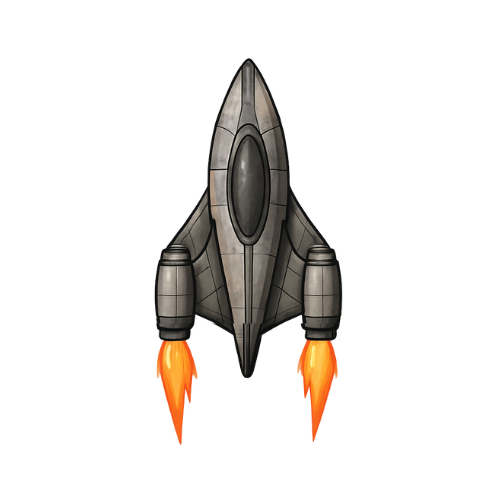
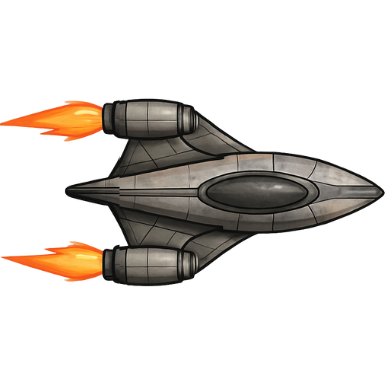
Vrai fix(c'était pas fix avant enft) + refacto fonction position

Changed region(s): [[0.0, 0.1247, 1.0, 0.9039]]

diff --git a/jeuppi.py b/jeuppi.py
@@ -103,24 +103,28 @@ def gerer_touche(event):
                     vaisseau_avance = True
                 elif vaisseau_avance and event.type == pygame.KEYUP:
                     vaisseau_avance = False
+            case pygame.K_e:
+                stop_vaisseau()
 
 def afficher_vaisseau(position_vaisseau, orientation_vaisseau):
-    if vaisseau_avance:
-        
+    if vaisseau_avance:  
         image_vaisseau = vaisseau_images[1]
         photo_vaisseau = pygame.transform.scale(image_vaisseau,(RAYON_VAISSEAU*2,RAYON_VAISSEAU*2))
-        photo_vaisseau_r = pygame.transform.rotate(photo_vaisseau,270+orientation_vaisseau)
+        #Il faut rajouter un moins sinon l'image du vaisseau tourne dans le mauvais sens
+        photo_vaisseau_r = pygame.transform.rotate(photo_vaisseau,-orientation_vaisseau)
         position_vaisseau_photo = pygame.Rect(position_vaisseau[0]-RAYON_VAISSEAU,position_vaisseau[1]-RAYON_VAISSEAU,2*RAYON_VAISSEAU,2*RAYON_VAISSEAU)
         fenetre.blit(photo_vaisseau_r,position_vaisseau_photo)
     else: 
         image_vaisseau = vaisseau_images[0]
         photo_vaisseau = pygame.transform.scale(image_vaisseau,(RAYON_VAISSEAU*2,RAYON_VAISSEAU*2))
-        photo_vaisseau_r = pygame.transform.rotate(photo_vaisseau,270+orientation_vaisseau)
+        #Il faut rajouter un moins sinon l'image du vaisseau tourne dans le mauvais sens
+        photo_vaisseau_r = pygame.transform.rotate(photo_vaisseau,-orientation_vaisseau)
         position_vaisseau_photo = pygame.Rect(position_vaisseau[0]-RAYON_VAISSEAU,position_vaisseau[1]-RAYON_VAISSEAU,2*RAYON_VAISSEAU,2*RAYON_VAISSEAU)
         fenetre.blit(photo_vaisseau_r,position_vaisseau_photo)       
     return 
 
-    
+# Dear Arthur, va te faire foutre avec ton code à la chat gpt ça m'a pris trois heures à débuguer
+
 # Fonction qui calcule la différence entra l'ancienne et la nouvelle position du vaisseau (afin de l'appliquer aux élément du jeu)
 def get_delta_pos(temps_maintenant,masse_vaisseau,force,orientation_vaisseau,stop=False):
     global t_avant
@@ -136,7 +140,7 @@ def get_delta_pos(temps_maintenant,masse_vaisseau,force,orientation_vaisseau,sto
         t_avant = temps_maintenant
     delta_t = temps_maintenant - t_avant
 
-    #coordonnés du vaisseau dans le repere ecran
+    #coordonnés du vaisseau dans le repere écran
     x_vaisseau = dimensions_fenetre[0]/2
     y_vaisseau = dimensions_fenetre[1]/2
     
@@ -146,32 +150,15 @@ def get_delta_pos(temps_maintenant,masse_vaisseau,force,orientation_vaisseau,sto
     ax = a*math.cos(angle_rad)
     ay = a*math.sin(angle_rad)
     
-    #calcul gravité pour chaque planete
-    for entite in scene : 
-        if entite["type"]=="planete":
-            x_planete,y_planete = entite["position"]
-
-            #distance au carré entre le vaisseau et la planete choisie
-            delta_x = x_planete-x_vaisseau
-            delta_y = y_planete-y_vaisseau
-            r2 = delta_x**2 + delta_y**2
-
-            #on applique la gravité pour un rayon appartenant à [0,rayon_influence]
-            if r2<= RAYON_INFLUENCE**2 and r2>0:
-                r = math.sqrt(r2)
-                masse_planete = entite["masse"]
-
-                #calcul gravité
-                Force_grav = CONSTANTE_GRAV*masse_planete*masse_vaisseau/r2
-                a_grav = Force_grav/masse_vaisseau
-                #on additionne la gravité à celle du moteur(+vecteur unitaire pour la direction)
-                ax+=a_grav*(delta_x/r)
-                ay+=a_grav*(delta_y/r)
+    # calcul gravité pour chaque planete
+    a_planete = calcul_gravite_planete(x_vaisseau,y_vaisseau,masse_vaisseau)
+    ax+=a_planete[0]
+    ay+=a_planete[1]
 
     #mise a jour vitesse
     vx = vx0+ax*delta_t
     vy = vy0+ay*delta_t
-
+    
     #mise a jour position du vaisseau
     x =x0 + vx0*delta_t + (ax*delta_t**2)/2
     y =y0 + vy0*delta_t + (ay*delta_t**2)/2
@@ -195,6 +182,31 @@ def get_delta_pos(temps_maintenant,masse_vaisseau,force,orientation_vaisseau,sto
 
     # On retourne la différence entre l'ancienne et nouvelle position du vaisseau
     return [x0-x,y0-y]
+
+def calcul_gravite_planete(x_vaisseau,y_vaisseau,masse_vaisseau):
+    a_planete_x = 0
+    a_planete_y = 0
+    for entite in scene : 
+            if entite["type"]=="planete":
+                x_planete,y_planete = entite["position"]
+
+                #distance au carré entre le vaisseau et la planete choisie
+                delta_x = x_planete-x_vaisseau
+                delta_y = y_planete-y_vaisseau
+                r2 = delta_x**2 + delta_y**2
+
+                #on applique la gravité pour un rayon appartenant à [0,rayon_influence]
+                if r2<= RAYON_INFLUENCE**2 and r2>0:
+                    r = math.sqrt(r2)
+                    masse_planete = entite["masse"]
+
+                    #calcul gravité
+                    Force_grav = CONSTANTE_GRAV*masse_planete*masse_vaisseau/r2
+                    a_grav = Force_grav/masse_vaisseau
+                    #on additionne la gravité à celle du moteur(+vecteur unitaire pour la direction)
+                    a_planete_x+=a_grav*(delta_x/r)
+                    a_planete_y+=a_grav*(delta_y/r)
+    return a_planete_x,a_planete_y
 
 
 def stop_vaisseau():
@@ -254,7 +266,6 @@ def afficher_planete(planete):
     fenetre.blit(photo_planete,position)
     return
 
-
 def generer_carte():
     nb_planetes=random.randint(NBR_PLANETE_MIN,NBR_PLANETE_MAX)
     couleurs = [ROUGE,JAUNE,BLEU,ORANGE,WHITE]
@@ -309,7 +320,7 @@ while True:
     delta_pos = get_delta_pos(pygame.time.get_ticks(),1,force,orientation_vaisseau)
 
     affiche(scene, delta_pos)
-    collision_planete()
+    # collision_planete()
     pygame.display.flip()
     horloge.tick(images_par_seconde)
     
